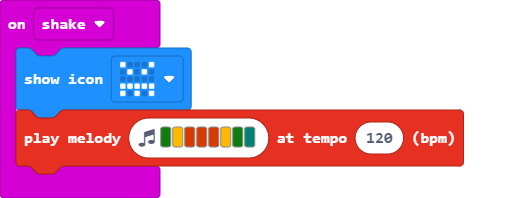
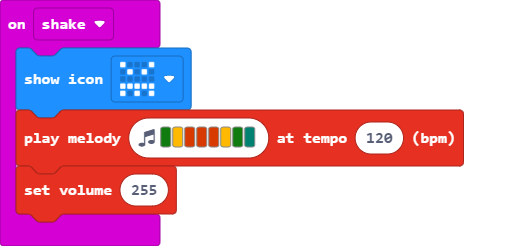
Update main.blocks, main.ts

Changed region(s): [[0.0, 0.0303, 0.901, 0.9091]]

diff --git a/main.ts b/main.ts
@@ -1,4 +1,5 @@
 input.onGesture(Gesture.Shake, function () {
     basic.showIcon(IconNames.Angry)
     music.playMelody("G A B B B A G F ", 120)
+    music.setVolume(255)
 })
